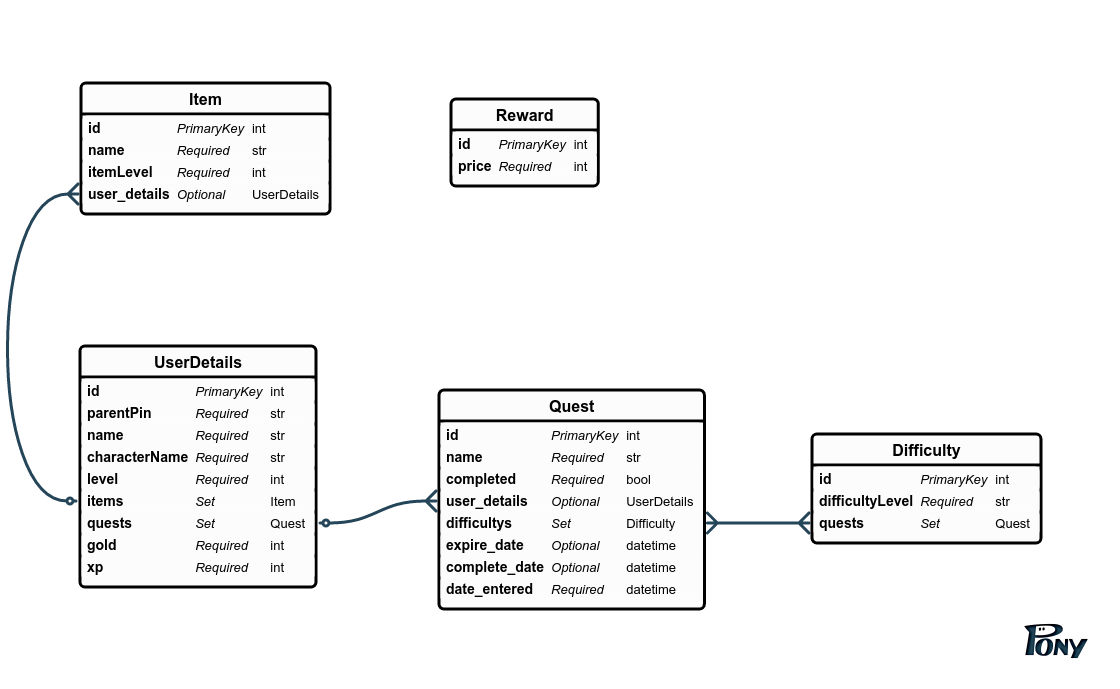
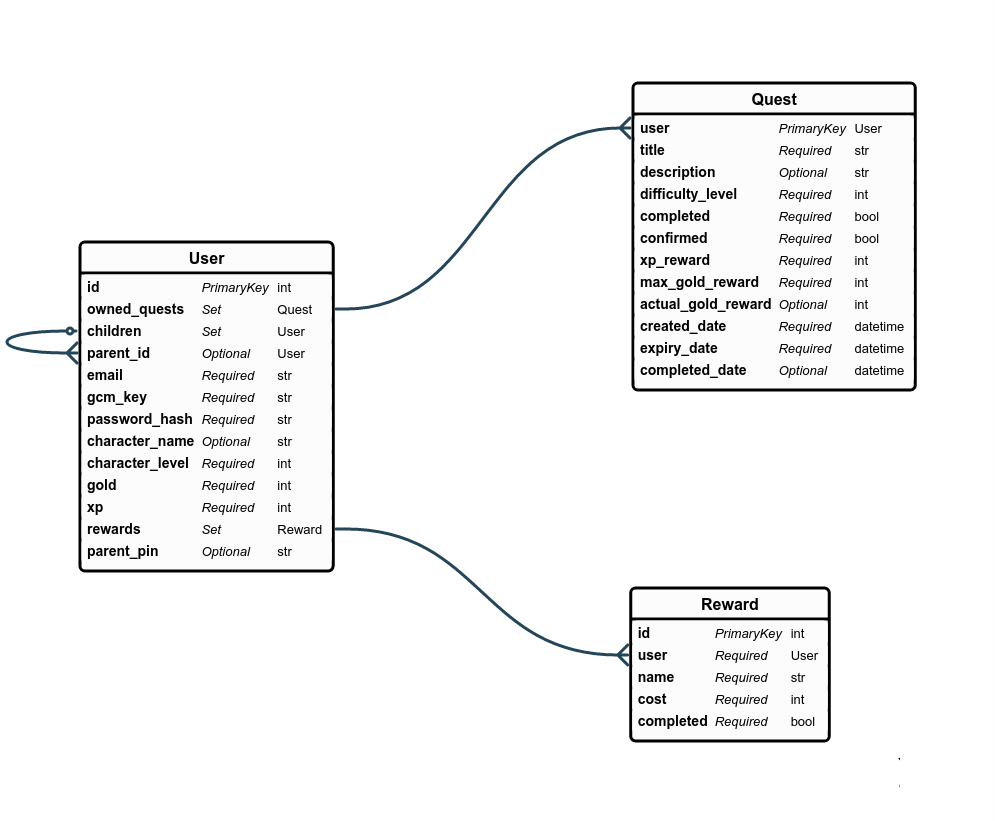
Added ERD, reworded some design, fixed wireframes

diff --git a/chapters/chapter04design.tex b/chapters/chapter04design.tex
@@ -2,21 +2,6 @@
 \chapter{Design}
 In this section, I will discuss both aesthetic and technical designs for the application as well as offer an overall design of the system as a whole.
 
-\section{User Interface}
-\subsection{Navigation}
-A focus must be put on the usability of the screens in KidQuest.
-They should not only be easy to use, but easy to learn and navigate between, and should offer minimal resistance in the use of the application.
-
-\cite{stone2005user} classifies a good user interface design as an `easy, natural and engaging interaction between a user and a system'.
-
-\subsection{Android Developer Guidelines}
-
-\subsection{Wireframes}
-Wireframing is a useful tool to plan out the aesthetic design of screens and the UI elements used within them. 
-A wireframe is also useful to get a better overview of the navigation between screens, as they can be used to plan out the button presses that will select the next screen.
-The wireframes shown in appendix \ref{appendix:wireframes}
-
-
 \section{System Design}
 In order to gain a better overview of the system, I mapped out how the individual pieces of the KidQuest system work together.
 
@@ -34,66 +19,51 @@ However, these designs presented many drawbacks, the key of which was that commu
 For example, if a child user marked a quest as completed, their phone would send a notification to the parent user.
 However if this notification was not received by the parent, the quest would fall into a limbo-like state where the parent is waiting for it to be completed and the child is waiting for it to be confirmed.
 
-Therefore, the system calls for a central location in order for two users to reliably communicate between each other.
+Therefore, the system calls for a centralized location in order for two users to reliably communicate between each other.
 By implementing the functionality into a server-based application, the system becomes significantly more portable. 
 As all functionality of the system rests in a centralized location, any ported apps - such as iOS or a web app - would only have to tie into the existing API.
 This would make porting the application trivial, as the only code that would need to be created for these apps would be code to simply send and receive web service requests to the API and display the data that it receives.
 
-Making the move to server-side implementation did have two main consequences. 
+It also has a positive effect on the maintainability of the software. 
+Updating software on mobile becomes difficult as some people do not always update their apps to the latest version. 
+Furthermore, two users working together on two different versions of the app could cause serious interoperability problems.
+The server API helps this, as all functionality updates to the system can be made in the server rather than user devices, effectively distributing updated functionality to all users at once, instantly.
+
+However, server-side implementation does have two main consequences which must be considered. 
 Firstly, users would now require an internet connection to use the app so that it is able to communicate with the server.
-This may cause an issue for users who have limited data plans on their phone contracts, however, as the app only communicates using JSON web service requests, data usage is kept to a minimum as requests are only a few kilobytes at a time.
-Also, these users will often be conscious about their data usages anyway and will use android settings to restrict data, or only use the app on WiFi. 
-Secondly, I would need to have increased security requirements surrounding the data, making sure that it is sufficiently encrypted during transfer to the server, and that the data stored on the server itself is protected as well.
-All users were now required to create an account with the server in order to use the app, as the server needed to store the data on it's end rather than on the users' phone.
+This may cause an issue for users who have limited data plans on their phone contracts or limited connectivity. 
+However, this issue can be mitigated by keeping the data sent to a minimum and making the app only send requests it needs to.
+Furthermore, options exist in the Android OS that restrict an application's data usage, meaning that requests will be halted until the user has connected to a usable wi-fi network.
 
+Secondly, All users will be required to create an account with the server in order to use the app, as the system needs to store the data on the server end rather than on the users' phone.
+I would need to have increased security requirements surrounding that data, making sure that it is sufficiently encrypted during transit between the user device and server, and that the data stored on the server itself is sufficiently protected as well.
 
-Furthermore, centralized functionality would also allow the app to easily work between users using different versions of the code. 
-i.e. A parent using iOS would be able to monitor a child using an Android phone.
-
-\subsection{Security Requirements}
+\subsubsection{Security Requirements}
 To handle logins securely, I plan on implementing a token-based authentication system within the server. 
-Upon their first request, the user submits their username and password within a HTTP POST request to the endpoint `api/token'.
-The server then sends back an encrypted token that is derived out of various attributes of their account, which the user client stores.
+Upon their first request, the user submits their username and password within a HTTP POST request to the server.
+The server then sends back an encrypted token that is derived out of various hashed attributes of their account, which the user client then stores.
 The app will then authenticate itself with the server for every future request using this token.
-This offers the main benefit that the app only has to store the token and not the username and password, which would leave it vulnerable to other (malicious) apps accessing it.
-The app will also not have to send their username and password with each request that it makes to the API, minimizing the risk of the password within the request being intercepted in transport.
+This offers the main benefit that the app only has to store the token and not the username and password, which would leave it vulnerable to other (malicious) apps accessing critical user data.
+It will also mean that the app will not have to send their username and password with each request that it makes to the API, minimizing the risk of the password within the request being intercepted in transport.
 The password is only stored within the server, which has securely encrypted it with a salted hash.
 
+\section{Database}
+\subsection{Design}
+Entity Relationship Diagrams (ERD) are a visual representation of tables, columns and relationships within a database.
 
+\begin{figure}[ht]
+	\centering
+	\includegraphics[scale=0.25]{images/entityRelationshipDiagram.png}
+	\caption{Server Entity Relationship Diagram}
+	\label{fig:erd}
+\end{figure} 
 
-\section{User Requirements}
-\subsection{The Child}
-The child will open the application and be met with a character screen, which will display the relevant information about their character, including the XP/Gold they currently have, the XP needed until the next level and the recent rewards they have earned.
-The child can then check their quests and mark any that they have finished as complete.
-The quest will then move into the pending quest log, ready for a parent to confirm.
-Once the parent has confirmed the quest, the child will be met with a reward of experience points and gold based on the difficulty of the quest.
-
-The child can visit the rewards section to spend their gold on in-game items which will increase the power level of their character. 
-Alternatively, they can spend their gold on rewards that have been set by the parents. 
-i.e. 400 gold will be able to purchase a visit to the cinema.
-
-The application controls must be kept simple and uniform so that they are able to be learned and used by children.
-Children will not be able to access any parent functions as they will require the parent's pin code. 
-
-\subsection{The Parent}
-The parent can either access the parent functions on the child's application using a pin code, or use their own `parent edition' of the application. 
-When designing the use case of the parents, it is important to minimize the level of interaction required from the parent to ensure they do not become tired of managing the game for the child.
-
-The parent can create quests through a simple interface, entering in the task's name, an optional description and a difficulty level. 
-The quest can have one of 5 difficulty levels, ranging from very hard to very easy.
-The game will generate the rewards for the child based on their current level and the difficulty of the quest.
-Alternatively, the parent can choose from a range of preset quests from three selected categories:
-\begin{itemize}
-	\item 
-		Staff Pick - A list of common tasks chosen by the me to help populate the list with easily selectable quests. 
-		This will contain obvious choices for tasks such as ``Clean your room'' or ``Wash the dishes''
-	\item
-		Trending in Your Area - A list of tasks that have been recently trending in the users location. 
-		This will be used to suggest tasks that many users have been inputting into the app, including recently relevant tasks like ``Rake the leaves in the garden'' at the start of Autumn.
-	\item 
-		Trending Amongst Friends - Tasks that have been trending amongst the users friends list, not including quests counted in the previous 	trending category. 
-		This may include friends added both within the app and/or friends from Facebook integration.  
-\end{itemize}
+\subsection{Database Access}
+In this design, the central database is only accessible via the server API, rather than using a direct connection to any of the users' individual devices.
+Instead, the server will offer publicly available web services that will provide functionality to input or update data. 
+This has the benefit of allowing me to properly validate and sanitize any data sent by the user before being added to the database and correctly reject requests that are unsuitable. 
+These services will ensure the user making the request is authorized to take actions on that account - i.e. The user making the request must be either the owner of that account or a registered parent of the user - before allowing them to perform any functionality.
+This segregation of the database helps to protect user data, as the database is not made accessible over the web at any point and is therefore less vulnerable to malicious entry.
 
 \section{Development Methodologies}
 \subsection{Agile}
@@ -145,6 +115,7 @@ For example, the endpoint of `/api/users/<userId>/' allows two request types, GE
 	\item{Invalid put}
 \end{itemize}  
 %TODO: Research what test generation this is
+
 However, this raises issues when considering that a request could be invalid for multiple reasons, and simply testing for invalid/valid may not reach adequate code coverage.
 An example of this could be that a PUT request may be invalid due to an email address already existing within the database or because they have not included a valid did not include any new data about the user, which are two separate sections of the code that arguably each require their own tests.
 Because of this, it must be analysed whether or not the test cases achieve sufficient code coverage, rather than just relying on the entry points into the software.
@@ -169,3 +140,16 @@ This is made significantly easier by the implementation of strong automated unit
 I also intend to follow a common development practice where a unit test is added for each defect that is found within the code, a new unit test is added to detect the presence of that bug specifically. 
 This will allow me to easily spot any recurrences of legacy bugs that would otherwise go unnoticed.
 
+\section{User Interface}
+\subsection{Navigation}
+A focus must be put on the usability of the screens in KidQuest.
+They should not only be easy to use, but easy to learn and navigate between, and should offer minimal resistance in the use of the application.
+
+\cite{stone2005user} classifies a good user interface design as an `easy, natural and engaging interaction between a user and a system'.
+
+\subsection{Android Developer Guidelines}
+
+\subsection{Wireframes}
+Wireframing is a useful tool to plan out the aesthetic design of screens and the UI elements used within them. 
+A wireframe is also useful to get a better overview of the navigation between screens, as they can be used to plan out the button presses that will select the next screen.
+The wireframes shown in appendix \ref{appendix:wireframes} give an overview of the general aesthetic style that will be used.

diff --git a/appendices/wireframes.tex b/appendices/wireframes.tex
@@ -1,33 +1,31 @@
 \chapter{Wireframe Designs}
 \label{appendix:wireframes}
 
-\begin{figure*}
-        \centering
-        \begin{subfigure}[b]{0.2\textwidth}
-            \centering
-            \includegraphics[width=\textwidth]{../images/Wireframes/YourQuestsScreen.png}
-            \caption[Network2]%
-            {{\small Network 1}}    
-        \end{subfigure}
-        \hfill
-        \begin{subfigure}[b]{0.2\textwidth}  
-            \centering 
-            \includegraphics[width=\textwidth]{../images/Wireframes/MainScreen.png}
-            \caption[]%
-            {{\small Network 2}}    
-        \end{subfigure}
-        \vskip\baselineskip
-        \begin{subfigure}[b]{0.2\textwidth}   
-            \centering 
-            \includegraphics[width=\textwidth]{../images/Wireframes/NavigationScreen.png}
-            \caption[]%
-            {{\small Network 3}}    
-        \end{subfigure}
-        \quad
-        \begin{subfigure}[b]{0.2\textwidth}   
-            \centering 
-            \includegraphics[width=\textwidth]{../images/Wireframes/AddQuestScreen.png}
-            \caption[]%
-            {{\small Network 4}}    
-        \end{subfigure}
-    \end{figure*}
+\begin{figure}[ht] 
+  \label{ fig7} 
+  \begin{minipage}[b]{0.5\linewidth}
+    \centering
+    \includegraphics[width=.5\linewidth, frame]{../images/Wireframes/YourQuestsScreen.png} 
+    \caption{Your Quests Screen} 
+    \vspace{4ex}
+  \end{minipage}%%
+  \begin{minipage}[b]{0.5\linewidth}
+    \centering
+    \includegraphics[width=.5\linewidth, frame]{../images/Wireframes/MainScreen.png}
+    \caption{Landing Page} 
+    \vspace{4ex}
+  \end{minipage} 
+  \begin{minipage}[b]{0.5\linewidth}
+    \centering
+    \includegraphics[width=.5\linewidth, frame]{../images/Wireframes/NavigationScreen.png}
+    \caption{Navigation Sidebar} 
+    \vspace{4ex}
+  \end{minipage}%% 
+  \begin{minipage}[b]{0.5\linewidth}
+    \centering
+    \includegraphics[width=.5\linewidth, frame]{../images/Wireframes/AddQuestScreen.png}
+    \caption{Add Quest Form} 
+    \vspace{4ex}
+  \end{minipage} 
+  \caption{Wireframe Designs for the KidQuest Application}
+\end{figure}

diff --git a/chapters/chapter05implementationandevaluation.tex b/chapters/chapter05implementationandevaluation.tex
@@ -104,7 +104,9 @@ For the server, I will an extension library of Flask called Flask-Testing, which
 Flask-Testing allows you to create a new instance of your Flask application with a separate configuration file which can be changed to make the app connect to a different MySQL database file - in this case it connected to a freshly generated and empty test database.
 Then, as each separate test case is run, I used the library to delete the test database and regenerate it to ensure that previous unit tests would not interfere with new tests.
 
-
+For example, the following code is a simple test that creates a child user on the server, then attempts to get the user details from the server without authorizing itself first. 
+The test will pass if the server correctly rejects the request with a `401: Not Authorized' error or fail otherwise.
+\lstinputlisting[language=python]{codesnippets/serverunittest.py}
 
 %%Results
 
@@ -151,9 +153,9 @@ This will ensure that the player will still feel like they are progressing at a 
 	\textrm{XP Gained} = \frac{(n+2)(n+3)}{2} \times 10
 \end{equation}
 
-
 %TODO: Work out wtf you are doing with this chart
-\begin{tikzpicture}	
+\begin{center}
+\begin{tikzpicture}
 	\begin{axis}[
 		xlabel=Level,
 		ylabel=Quests to level up,
@@ -206,3 +208,9 @@ This will ensure that the player will still feel like they are progressing at a 
 		\addlegendentry{Equation \ref{eq:xpgainedlinear}}
 	\end{axis}
 \end{tikzpicture}
+\end{center}
+
+\subsection{Gold Rewards}
+\begin{equation} \label{eq:openloopreward}
+	yk = ax_k + by_{k-1} + cy_{k-2}lc
+\end{equation}

diff --git a/main.tex b/main.tex
@@ -18,11 +18,11 @@
 \usepackage{color}	
 \usepackage[hidelinks]{hyperref}
 \usepackage{pgfplots}
-\usepackage{graphicx}
 \usepackage{subcaption}
 \usepackage{array}
 \usepackage{longtable}
 \usepackage{enumitem}
+\usepackage[export]{adjustbox}
 \newcolumntype{L}[1]{>{\raggedright\let\newline\\\arraybackslash\hspace{0pt}}m{#1}}
 \newcolumntype{C}[1]{>{\centering\let\newline\\\arraybackslash\hspace{0pt}}m{#1}}
 \newcolumntype{R}[1]{>{\raggedleft\let\newline\\\arraybackslash\hspace{0pt}}m{#1}}
